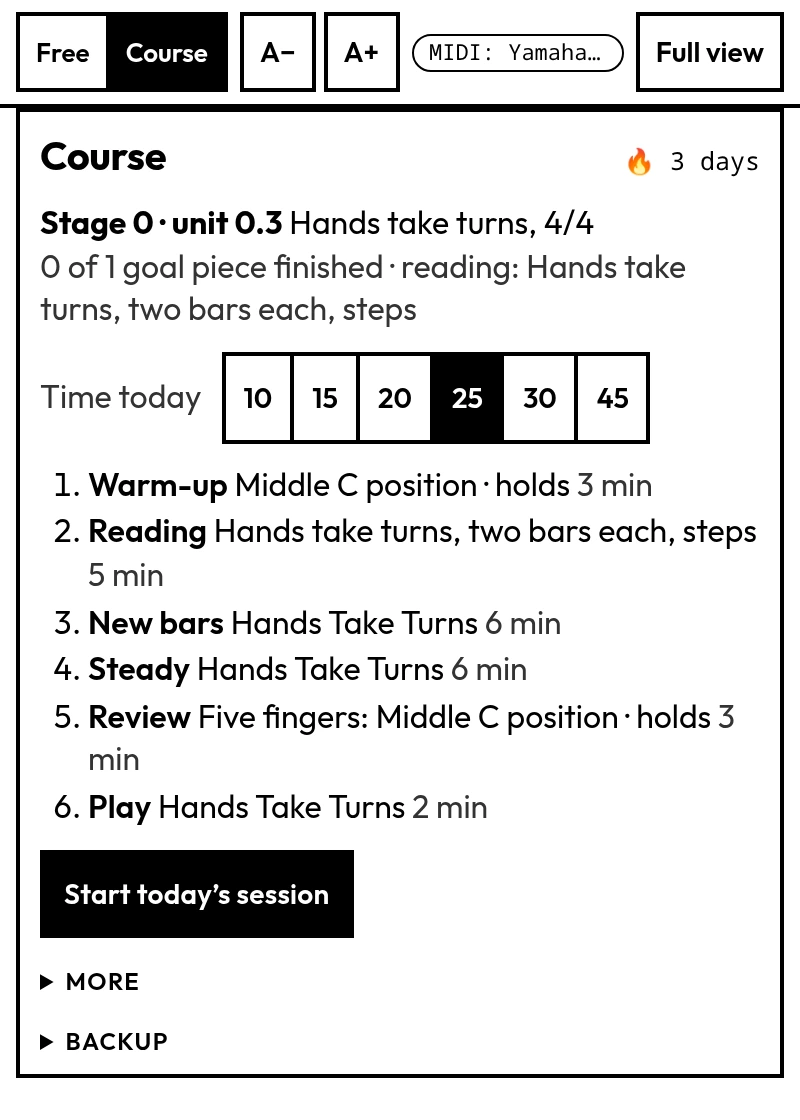
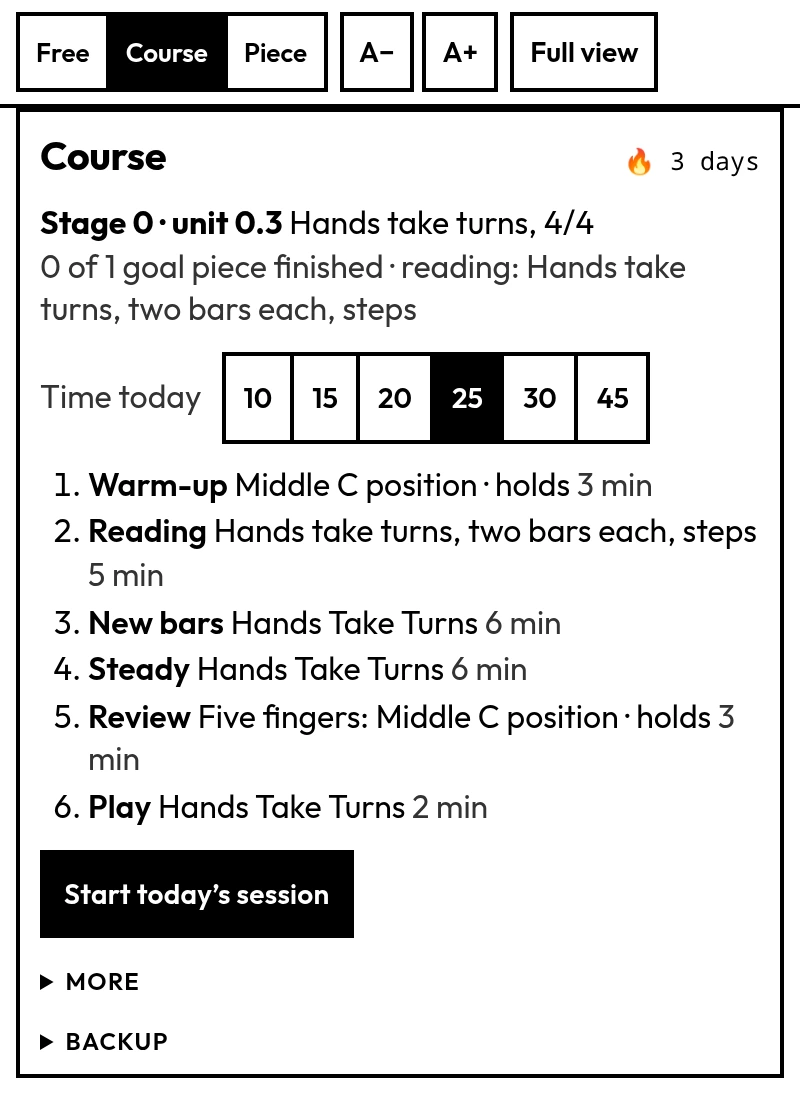
Update README and screenshots

Changed region(s): [[0.2812, 0.0, 1.0, 0.0938]]

diff --git a/README.md b/README.md
@@ -13,7 +13,7 @@ MIDI keyboard, and you can also play with your computer keyboard or the mouse.
 
 ## Screenshots
 
-**Wait mode** (Warm theme). The cursor waits for the right notes. The notes you play appear on the staff, green when right and red when wrong, at the height of the key you pressed, with a plain explanation underneath. The line under the title is the piece's score history.
+**Wait mode** (Warm theme). The cursor waits for the right notes. The notes you play appear on the staff, green when right and red when wrong, at the height of the key you pressed, with a plain explanation underneath. The screen stays bare: the list of pieces is a drawer (**☰ Pieces**), the drawn piano is hidden, and the MIDI status only shows when something is wrong.
 
 ![Wait mode on Ode to Joy: a right chord in green, a wrong key in red, and the feedback line](docs/screenshots/wait-mode.webp)
 
@@ -29,7 +29,7 @@ MIDI keyboard, and you can also play with your computer keyboard or the mouse.
 
 ![Sight-reading test, level 1](docs/screenshots/sight-reading.webp)
 
-The three dots at the top right switch between the Warm, Cold blues and Night themes, and the choice is remembered. The screenshots use a stand-in for the piano connection, so the top bar shows a P-115.
+The three dots at the top right switch between the Warm, Cold blues and Night themes, and the choice is remembered. The screenshots use a stand-in for the piano connection. `node tools/screenshots/full.mjs` takes the full-view ones again (see its header).
 
 ## Course mode and the minimal view
 
@@ -72,7 +72,20 @@ These screenshots show only the app's own exercises and generated pieces, with a
 
 ## Piece mode
 
-The **Piece** switch at the top works one score until it is done: the app finds the easy and hard parts of each hand, then takes you from the notes the piece uses, through each hand alone, a few bars with both hands, and the trouble spots, up to the whole piece with the metronome. Details: [14-piece-mode.md](14-piece-mode.md).
+The **Piece** switch at the top works one score until it is done: the app finds the easy and hard parts of each hand, then takes you from the notes the piece uses, through each hand alone, a few bars with both hands, and the trouble spots, up to the whole piece with the metronome.
+
+It opens on a short list of pieces **grouped by artist**. Pick one and you are practising at once, at the step where you stopped: there is no plan to read, only a row of dots at the top for how far along the path you are (filled = done, big = this one, dashed = skipped). **Pieces** takes you back to the list.
+
+<table>
+<tr>
+<td width="50%"><img src="docs/screenshots/piece-home.webp" alt="Piece mode: the pieces grouped by artist"><br><sub><b>The list.</b> Pieces by artist.</sub></td>
+<td width="50%"><img src="docs/screenshots/piece-step.webp" alt="The first step of a piece: a note card, with one dot per step above it"><br><sub><b>A step.</b> The first step is a note card; the dots above show the whole path.</sub></td>
+</tr>
+</table>
+
+Every playing step opens on the notes only, with the music waiting for you, and that practice is free: it never counts. A step is finished by the rhythm: press **Play with rhythm** and play it with the metronome. Only good runs with the beat count towards the goal, and **Back to the notes only** takes you back whenever you like.
+
+Only the scores marked `"pieceMode": true` in `app/scores/library.json` appear in its list, so the list holds just the pieces set up by hand for it (today: Tomorrow's Song). Add the flag to an entry to offer another.
 
 ## What the app does
 
@@ -80,6 +93,7 @@ The **Piece** switch at the top works one score until it is done: the app finds 
   [OpenSheetMusicDisplay](https://opensheetmusicdisplay.org/), with a cursor on the current step.
 - **Wait mode.** The cursor stays put until you play exactly the right notes. Chords can be played in any order. Use it to learn a piece.
 - **Notes on the staff.** A right key shows up as a green note that fades after a moment. A wrong key shows up as a red note on the staff at the cursor (with ledger lines and a sharp sign where needed), so you see at what height you played, not just a message. It works before you press Start too: in tempo mode the key is checked against the first notes of the piece (or your bar range) for the hand you chose, with no clock and no score.
+- **Sound.** Listen and the computer keyboard play through one of four instruments, picked with the **♪** button beside Listen: Grand (a recorded piano, one sample per key from C2 to B5, loaded the first time it is used), Piano (a built-in one made of overtones that die away at their own speed, with a hammer thump and a little room reverb), Soft (an electric piano) and Bells. The built-in ones are made in code and work with no files; if the recorded samples cannot be loaded, Grand plays the built-in Piano instead. The samples are MIT-licensed, from [piano-sound-samples](https://github.com/Leethring/piano-sound-samples); see `app/public/samples/piano/README.md`. A piano plugged in over MIDI always makes its own sound.
 - **Tempo mode.** After a count-in, the score follows a metronome and each note has a timing window. You get the share of notes played
   in time, missed and extra notes, and whether you rush or drag. After a clean run the tempo rises 4 bpm. Three clean runs at the target tempo finish the piece.
   The tempo counts the piece's own beat, so 6/8 is counted in dotted quarters. A line slides across the score at the tempo: press each key as the line reaches its note. A level setting (Beginner, Intermediate, Advanced) sets how wide the timing window is, from about half a beat either side down to a strict ±150 ms at most.
@@ -93,7 +107,7 @@ The **Piece** switch at the top works one score until it is done: the app finds 
 - **Scales and arpeggios.** Generated for 23 keys, with fingering, run through the same tempo ladder.
 - **Scores.** Every run gets a 0–100 score and up to three stars, with how it compares to your last run and your best. Under each piece's title you see last score, best, run count and a sparkline; the library shows each piece's last score, and "Needs practice first" sorts the weakest to the top.
 - **Practice log.** Every run is saved in your browser, and each piece is marked new, practicing or done.
-- **Library search.** Filter by title, composer, skill, stage or status, and sort by course order or difficulty.
+- **Library search.** **☰ Pieces** opens the list as a drawer: filter by title, composer, skill, stage or status, and sort by course order or difficulty.
 - **Course mode.** A daily session built from the syllabus: warm-up, reading, new bars, a steady run, review and play, scaled to 10, 15, 20, 25, 30 or 45 minutes. It adapts: reading climbs after two good days, units end when their exit is met, and a streak counts the days. It starts with a seven-day introduction week. Progress can be saved to a file and loaded back (**Backup**).
 - **Reading ladder.** The Reading step is a generated piece from a ladder of 28 rungs, each adding one thing (one new note, a skip, a meter, a rhythm), tied to the unit you are in, so it never asks for something the lessons have not shown.
 - **Note cards.** In Stage 0, a note on the staff that you play within two seconds; the deck grows with the units and shows new notes more often.
@@ -116,8 +130,8 @@ npm run dev        # https://localhost:5173 (a self-signed certificate: accept t
 `npm run dev` serves over **https** on every network address, because Web MIDI only works on a secure page: that lets a phone on the same wifi open
 `https://<your laptop's address>:5173/?view=minimal` and use its own USB-MIDI. `npm run dev:http` is the plain `http://localhost:5173` server.
 
-Plug in a MIDI keyboard before you open the page. The device name appears in the top bar and the pedal value is shown live.
-With no keyboard, play with the computer keys (shown in the sidebar) or click the on-screen keys.
+Plug in a MIDI keyboard before you open the page. The MIDI status only shows when something is wrong: a red banner says whether the browser refused MIDI (press **Allow MIDI**; if Chrome has blocked it, the banner says where to switch it on, and the app reconnects by itself) or the keyboard disconnected (plug it back in and press **Reconnect**). The pedal appears once one is heard.
+With no keyboard, play with the computer keys (shown in the **☰ Pieces** drawer).
 
 ```bash
 npm test           # unit tests (vitest)
@@ -188,14 +202,16 @@ app/                    Vite + TypeScript app
   src/midi/             Web MIDI parsing and the single input bus (piano, keyboard, mouse)
   src/practice/         Wait mode, tempo mode, timeline, calibration, ranges, log, sight-reading test
   src/content/          Notation compiler, MXL reader, built-in lessons, technique generator, reading ladder, score manifest
-  src/ui/               Score view (paged and fitted in the minimal view), on-screen keyboard, synth, library filter, view switch
+  src/ui/               Score view (paged and fitted in the minimal view), on-screen keyboard (hidden), synth with four voices and the sample player, library filter, view switch
+  src/piece/            Piece mode: analysis, learning path, progress, the artist list and the practice bar
   src/course/           Course mode: state, day planner, note cards, the course page
   src/storage/          Backup and restore of everything the app remembers
   course/course.json    The units: exercises, reading rungs, cards, exits
   scores/library.json   Manifest of imported scores (files are not tracked)
-tools/                  import-scores.py, score-difficulty.py, midi-check.html, ledger.py
+  public/samples/piano/ The recorded piano (MIT, with its credit), one sample per key
+tools/                  import-scores.py, score-difficulty.py, midi-check.html, ledger.py, fingering.py (finger numbers for Tomorrow's Song), piano-samples.py (picks the piano samples)
 tools/omr/              PDF to MusicXML (homr plus checks), local only
-tools/screenshots/      Takes the minimal-view screenshots for this README
+tools/screenshots/      Takes the screenshots for this README (minimal.mjs and full.mjs)
 docs/screenshots/       The images above
 inbox/                  Drop new scores here, then run ./ingest.sh
 .claude/skills/         The import-scores skill for Claude Code

diff --git a/app/README.md b/app/README.md
@@ -29,12 +29,12 @@ npm test           # unit tests (vitest)
 npm run build      # typecheck + production build
 ```
 
-No piano plugged in? Play with the computer keyboard (shown in the sidebar) or click the on-screen keys.
-With the P-115 connected, the device name appears in the top bar and the sustain pedal value is shown live.
+No piano plugged in? Play with the computer keyboard (the keys are listed in the **☰ Pieces** drawer).
+The MIDI status only shows when something is wrong: a red banner says whether the browser refused MIDI (**Allow MIDI**) or the keyboard disconnected (**Reconnect**). The sustain pedal shows once one is heard. The drawn piano is hidden (`#keyboard` in `style.css`; delete that rule to bring it back).
 
 ## Course mode
 
-The app opens in Course; **Free | Course** at the top switches (and remembers the choice) between the app as it was (browse the library, play anything) and a daily session, Duolingo-style.
+The app opens in Course; **Free | Course | Piece** at the top switches (and remembers the choice) between the app as it was (browse the library, play anything) and a daily session, Duolingo-style.
 Course mode hides the library and the mode and hands switches: each step decides what you play. One dot per step shows where you are
 (filled = done, ring = here, dashed = skipped); a step counts when its goal is reached (a run, two readings, ten cards), **Next** or **Skip
 step** moves on, and **Menu** goes back to the course page. A day counts for the streak when its *core* steps (reading and new bars) are done.
